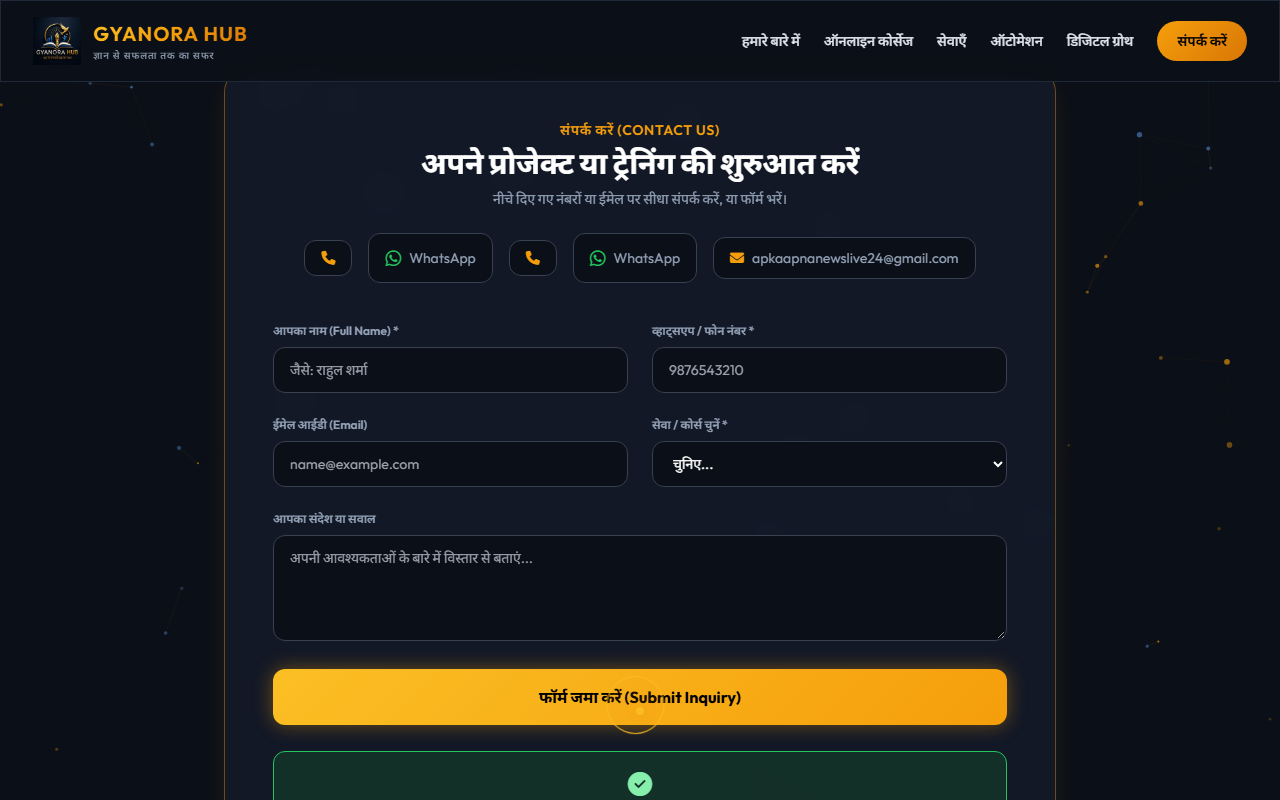
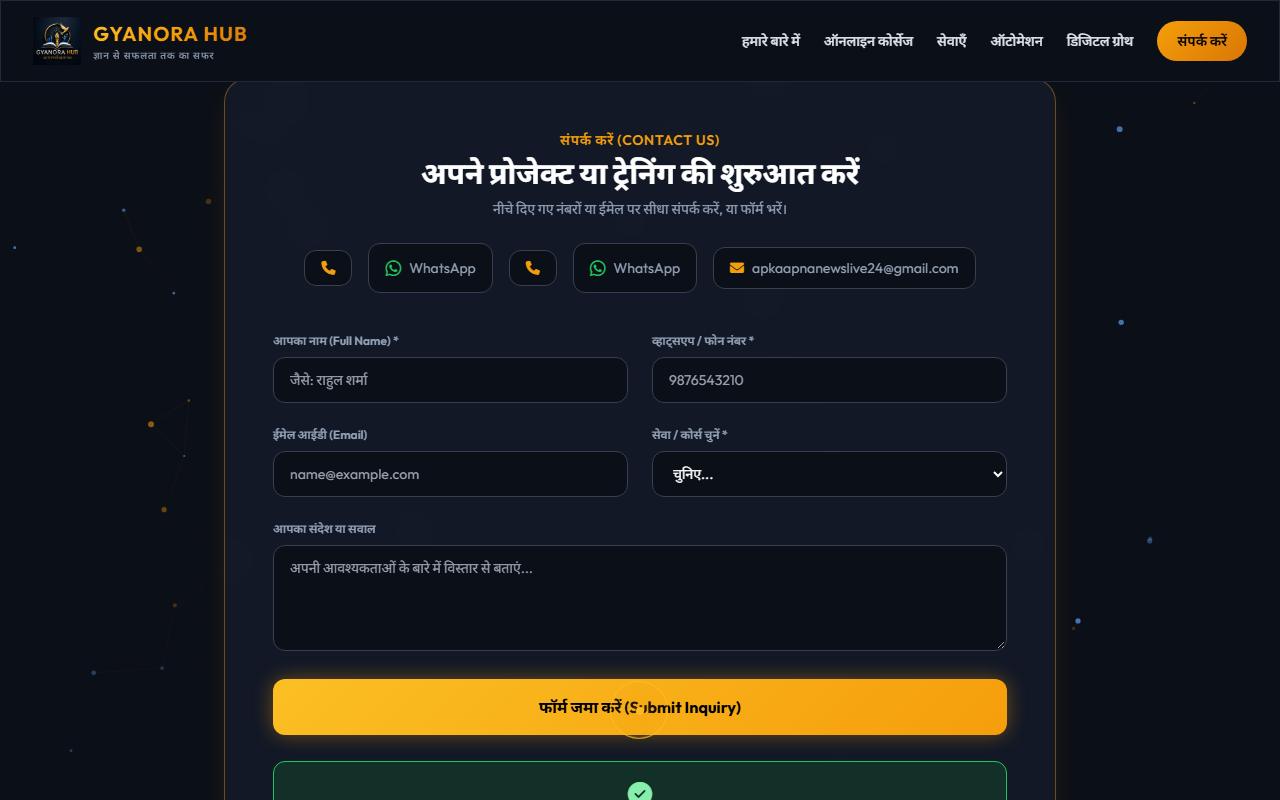
Hide phone numbers completely from UI (number only in invisible href; no text/tooltip)

diff --git a/index.html b/index.html
@@ -505,19 +505,19 @@
                     
                     <!-- Direct Clickable Contact Details -->
                     <div class="flex flex-col sm:flex-row flex-wrap justify-center items-center gap-3 sm:gap-4 mt-6 text-xs sm:text-sm">
-                        <a href="tel:8171643770" title="Call 8171643770" aria-label="Call 8171643770" class="w-full sm:w-auto flex items-center justify-center space-x-2 bg-brand-dark px-4 py-2.5 rounded-xl border border-gray-700 hover:border-brand-accent transition text-brand-subtext hover:text-brand-accent">
+                        <a href="tel:8171643770" title="Call" aria-label="Call" class="w-full sm:w-auto flex items-center justify-center space-x-2 bg-brand-dark px-4 py-2.5 rounded-xl border border-gray-700 hover:border-brand-accent transition text-brand-subtext hover:text-brand-accent">
                             <i class="fa-solid fa-phone text-brand-accent"></i>
 
                         </a>
-                        <a href="https://wa.me/918171643770" target="_blank" rel="noopener" title="WhatsApp 8171643770" aria-label="WhatsApp 8171643770" class="w-full sm:w-auto flex items-center justify-center space-x-2 bg-brand-dark px-4 py-2.5 rounded-xl border border-gray-700 hover:border-green-500 transition text-brand-subtext hover:text-green-400">
+                        <a href="https://wa.me/918171643770" target="_blank" rel="noopener" title="WhatsApp" aria-label="WhatsApp" class="w-full sm:w-auto flex items-center justify-center space-x-2 bg-brand-dark px-4 py-2.5 rounded-xl border border-gray-700 hover:border-green-500 transition text-brand-subtext hover:text-green-400">
                             <i class="fa-brands fa-whatsapp text-green-500 text-lg"></i>
                             <span>WhatsApp</span>
                         </a>
-                        <a href="tel:9259680648" title="Call 9259680648" aria-label="Call 9259680648" class="w-full sm:w-auto flex items-center justify-center space-x-2 bg-brand-dark px-4 py-2.5 rounded-xl border border-gray-700 hover:border-brand-accent transition text-brand-subtext hover:text-brand-accent">
+                        <a href="tel:9259680648" title="Call" aria-label="Call" class="w-full sm:w-auto flex items-center justify-center space-x-2 bg-brand-dark px-4 py-2.5 rounded-xl border border-gray-700 hover:border-brand-accent transition text-brand-subtext hover:text-brand-accent">
                             <i class="fa-solid fa-phone text-brand-accent"></i>
 
                         </a>
-                        <a href="https://wa.me/919259680648" target="_blank" rel="noopener" title="WhatsApp 9259680648" aria-label="WhatsApp 9259680648" class="w-full sm:w-auto flex items-center justify-center space-x-2 bg-brand-dark px-4 py-2.5 rounded-xl border border-gray-700 hover:border-green-500 transition text-brand-subtext hover:text-green-400">
+                        <a href="https://wa.me/919259680648" target="_blank" rel="noopener" title="WhatsApp" aria-label="WhatsApp" class="w-full sm:w-auto flex items-center justify-center space-x-2 bg-brand-dark px-4 py-2.5 rounded-xl border border-gray-700 hover:border-green-500 transition text-brand-subtext hover:text-green-400">
                             <i class="fa-brands fa-whatsapp text-green-500 text-lg"></i>
                             <span>WhatsApp</span>
                         </a>
@@ -596,16 +596,16 @@
                     </p>
                     <div class="space-y-2 text-xs sm:text-sm text-brand-subtext">
                         <div class="flex flex-wrap items-center gap-2 text-xs sm:text-sm">
-                            <a href="tel:8171643770" class="flex items-center space-x-2 bg-brand-card px-3 py-2 rounded-lg border border-gray-700 hover:border-brand-accent hover:text-brand-accent transition" title="Call 8171643770">
+                            <a href="tel:8171643770" class="flex items-center space-x-2 bg-brand-card px-3 py-2 rounded-lg border border-gray-700 hover:border-brand-accent hover:text-brand-accent transition" title="Call">
                                 <i class="fa-solid fa-phone text-brand-accent"></i>
                             </a>
-                            <a href="https://wa.me/918171643770" target="_blank" rel="noopener" class="flex items-center space-x-2 bg-brand-card px-3 py-2 rounded-lg border border-gray-700 hover:border-green-500 hover:text-green-400 transition" title="WhatsApp 8171643770">
+                            <a href="https://wa.me/918171643770" target="_blank" rel="noopener" class="flex items-center space-x-2 bg-brand-card px-3 py-2 rounded-lg border border-gray-700 hover:border-green-500 hover:text-green-400 transition" title="WhatsApp">
                                 <i class="fa-brands fa-whatsapp text-green-500"></i><span>WhatsApp</span>
                             </a>
-                            <a href="tel:9259680648" class="flex items-center space-x-2 bg-brand-card px-3 py-2 rounded-lg border border-gray-700 hover:border-brand-accent hover:text-brand-accent transition" title="Call 9259680648">
+                            <a href="tel:9259680648" class="flex items-center space-x-2 bg-brand-card px-3 py-2 rounded-lg border border-gray-700 hover:border-brand-accent hover:text-brand-accent transition" title="Call">
                                 <i class="fa-solid fa-phone text-brand-accent"></i>
                             </a>
-                            <a href="https://wa.me/919259680648" target="_blank" rel="noopener" class="flex items-center space-x-2 bg-brand-card px-3 py-2 rounded-lg border border-gray-700 hover:border-green-500 hover:text-green-400 transition" title="WhatsApp 9259680648">
+                            <a href="https://wa.me/919259680648" target="_blank" rel="noopener" class="flex items-center space-x-2 bg-brand-card px-3 py-2 rounded-lg border border-gray-700 hover:border-green-500 hover:text-green-400 transition" title="WhatsApp">
                                 <i class="fa-brands fa-whatsapp text-green-500"></i><span>WhatsApp</span>
                             </a>
                             <a href="mailto:apkaapnanewslive24@gmail.com" class="flex items-center space-x-2 bg-brand-card px-3 py-2 rounded-lg border border-gray-700 hover:border-brand-accent hover:text-brand-accent transition break-all" title="Email bhejen">

diff --git a/app.jsx b/app.jsx
@@ -279,7 +279,7 @@ export default function App() {
           href="https://wa.me/918171643770"
           target="_blank"
           rel="noopener noreferrer"
-          title="WhatsApp 8171643770"
+          title="WhatsApp"
           className="w-13 h-13 rounded-full bg-green-500 text-white flex items-center justify-center shadow-2xl hover:scale-110 transition-transform border border-green-300/40"
         >
           <svg className="w-6 h-6 fill-current" viewBox="0 0 24 24">
@@ -288,7 +288,7 @@ export default function App() {
         </a>
         <a
           href="tel:8171643770"
-          title="Call 8171643770"
+          title="Call"
           className="w-13 h-13 rounded-full bg-gradient-to-r from-amber-500 to-amber-600 text-black flex items-center justify-center shadow-2xl hover:scale-110 transition-transform border border-amber-300/40 group"
         >
           <svg className="w-6 h-6 fill-current" viewBox="0 0 24 24">
@@ -297,7 +297,7 @@ export default function App() {
         </a>
         <a
           href="tel:9259680648"
-          title="Call 9259680648"
+          title="Call"
           className="w-13 h-13 rounded-full bg-gradient-to-r from-amber-500 to-amber-600 text-black flex items-center justify-center shadow-2xl hover:scale-110 transition-transform border border-amber-300/40"
         >
           <svg className="w-6 h-6 fill-current" viewBox="0 0 24 24">
@@ -707,8 +707,8 @@ export default function App() {
             <div className="flex flex-wrap justify-center items-center gap-6 mt-6">
               <a
                 href="tel:8171643770"
-                title="Call 8171643770"
-                aria-label="Call 8171643770"
+                title="Call"
+                aria-label="Call"
                 className="flex items-center space-x-3 bg-[#0B0F17] px-5 py-3 rounded-2xl border border-amber-500/40 hover:border-amber-400 text-amber-400 transition"
               >
                 <svg className="w-5 h-5 fill-current" viewBox="0 0 24 24">
@@ -719,8 +719,8 @@ export default function App() {
 
               <a
                 href="https://wa.me/918171643770"
-                title="WhatsApp 8171643770"
-                aria-label="WhatsApp 8171643770"
+                title="WhatsApp"
+                aria-label="WhatsApp"
                 target="_blank"
                 rel="noopener noreferrer"
                 className="flex items-center space-x-3 bg-[#0B0F17] px-5 py-3 rounded-2xl border border-green-500/40 hover:border-green-400 text-green-400 transition"
@@ -733,8 +733,8 @@ export default function App() {
 
               <a
                 href="tel:9259680648"
-                title="Call 9259680648"
-                aria-label="Call 9259680648"
+                title="Call"
+                aria-label="Call"
                 className="flex items-center space-x-3 bg-[#0B0F17] px-5 py-3 rounded-2xl border border-amber-500/40 hover:border-amber-400 text-amber-400 transition"
               >
                 <svg className="w-5 h-5 fill-current" viewBox="0 0 24 24">
@@ -745,8 +745,8 @@ export default function App() {
 
               <a
                 href="https://wa.me/919259680648"
-                title="WhatsApp 9259680648"
-                aria-label="WhatsApp 9259680648"
+                title="WhatsApp"
+                aria-label="WhatsApp"
                 target="_blank"
                 rel="noopener noreferrer"
                 className="flex items-center space-x-3 bg-[#0B0F17] px-5 py-3 rounded-2xl border border-green-500/40 hover:border-green-400 text-green-400 transition"

diff --git a/app.py b/app.py
@@ -190,8 +190,8 @@ elif menu == "9. संपर्क करें (Contact Us)":
     st.markdown("<h2 class='section-header'>संपर्क करें (Get in Touch)</h2>", unsafe_allow_html=True)
     st.markdown("""
     **Direct Contact (icon par click karein — number khud dial hoga, screen par number nahi dikhega):**
-    - 📞 Call: [📞](tel:8171643770 "Call 8171643770") | [📞](tel:9259680648 "Call 9259680648")
-    - 💬 WhatsApp: [💬](https://wa.me/918171643770 "WhatsApp 8171643770") | [💬](https://wa.me/919259680648 "WhatsApp 9259680648")
+    - 📞 Call: [📞](tel:8171643770 "Call") | [📞](tel:9259680648 "Call")
+    - 💬 WhatsApp: [💬](https://wa.me/918171643770 "WhatsApp") | [💬](https://wa.me/919259680648 "WhatsApp")
     - ✉ Email: [apkaapnanewslive24@gmail.com](mailto:apkaapnanewslive24@gmail.com)
     """)
     
